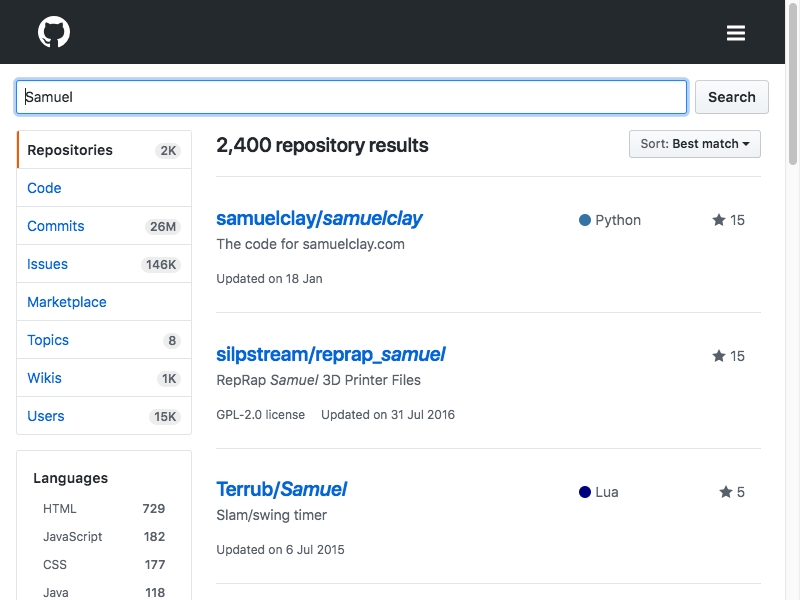
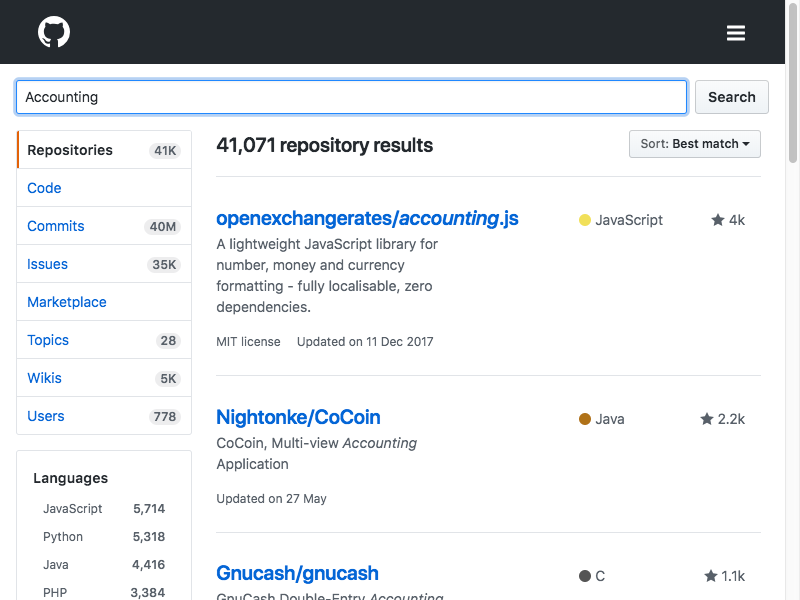
started work on listing displayed names

diff --git a/practicePuppeteer/scrapeGithub/thal/src/gitsnap.js b/practicePuppeteer/scrapeGithub/thal/src/gitsnap.js
@@ -1,6 +1,16 @@
 const puppeteer = require('puppeteer');
 const CREDS = require('./creds');
 
+async function searchGithub(page, stringToSearch) {
+
+	const searchUrl = `https://github.com/search?q=Accounting`;
+
+	await page.goto(searchUrl);
+	await page.waitFor(3*1000);
+
+	await page.screenshot({ path: 'screenshots/github.png'});
+}
+
 async function run() {
 	const browser = await puppeteer.launch({headless: false});
 	const page = await browser.newPage();
@@ -21,14 +31,30 @@ async function run() {
 
 	await page.waitForNavigation();
 
-	const stringToSearch = 'Samuel';
-
-	const searchUrl = `https://github.com/search?q=${stringToSearch}`;
+	//await searchGithub(page, 'Samuel');
+	const searchUrl = `https://github.com/search?q=Accounting`;
 
 	await page.goto(searchUrl);
 	await page.waitFor(3*1000);
 
-	await page.screenshot({ path: 'screenshots/github.png'});
+	const LIST_USERNAME_SELECTOR = '#user_search_results > div.user-list > div:nth-child(INDEX) > div.d-flex.flex-auto > div > div'
+
+	const LENGTH_SELECTOR_CLASS = 'user-list-item';
+
+	let listLength = await page.evaluate((sel) => {
+		return document.getElementsByClassName(sel).length;
+	}, LENGTH_SELECTOR_CLASS);
+
+	for (let i = 1; i <= listLength; i++) {
+		//changing the index to the next child
+		let usernameSelector = LIST_USERNAME_SELECTOR.replace("INDEX", i);
+		
+		let username = await page.evaluate((sel) => {
+			return document.querySelector(sel).getAttribute('href').replace('/', '');
+		}, usernameSelector);
+
+		console.log(i, '. ', username);
+	}
 
 	browser.close();
 }

diff --git a/practicePuppeteer/puppeteer.md b/practicePuppeteer/puppeteer.md
@@ -1,4 +1,4 @@
 FIRST, install puppeteer according to https://github.com/GoogleChrome/puppeteer
 THEN, have fun! It's actually quite cool :)
 
-For the Github Scrapping Example, i used https://medium.com/@e_mad_ehsan/getting-started-with-puppeteer-and-chrome-headless-for-web-scrapping-6bf5979dee3e. 
+For the Github Scrapping Example, i used https://medium.com/@e_mad_ehsan/getting-started-with-puppeteer-and-chrome-headless-for-web-scrapping-6bf5979dee3e 
